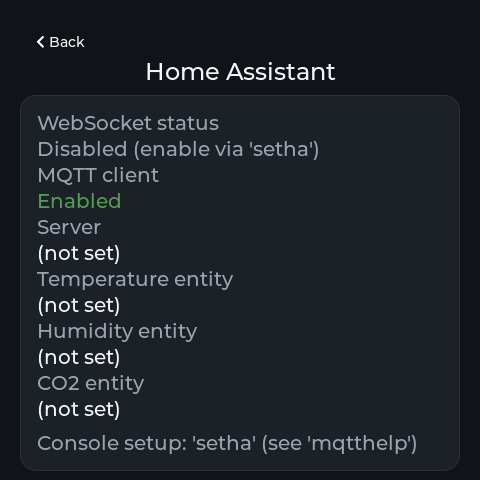
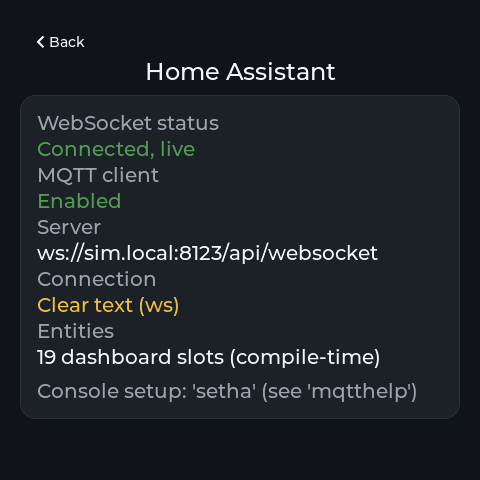
update

Changed region(s): [[0.0625, 0.5, 0.875, 0.875], [0.0625, 0.2812, 0.6562, 0.3438], [0.0625, 0.9062, 0.875, 0.9375]]

diff --git a/README.md b/README.md
@@ -4,14 +4,16 @@
 
 Firmware that turns the [Seeed Studio SenseCAP Indicator](https://www.seeedstudio.com/SenseCAP-Indicator-D1-p-5643.html) into a Home Assistant companion panel. It joins your Wi-Fi and talks to Home Assistant over your choice of two transports — classic **MQTT** (switch entities driven both ways, display values pushed by an automation, buzzer as a siren entity) or HA's native **WebSocket API** (the panel subscribes to entities directly; no broker or automation needed for live values). Touch controls, live temperature/humidity/CO₂ tiles, and a rolling Trends chart render on the 480×480 panel. All connections are outbound from the device; it opens no network ports.
 
-<figure class="third">
-    <img align="left" src="./assets/loft-controls.png" width="240"/>
-    <img align="center" src="./assets/general-controls.png" width="240"/>
-    <img align="left" src="./assets/trends.png" width="240"/>
-    <img align="center" src="./assets/mqtt-address-panel.png" width="240"/>
-    <img align="left" src="./assets/ha-websocket-status.png" width="240"/>
-</figure>
-
+<table>
+  <tr>
+    <td align="center"><img src="./assets/home.png" alt="Home dashboard"/><br/><sub><b>Home</b> — clock, quick actions, room cards</sub></td>
+    <td align="center"><img src="./assets/loft.png" alt="Loft room page"/><br/><sub><b>Loft</b> — environment tiles + light controls</sub></td>
+  </tr>
+  <tr>
+    <td align="center"><img src="./assets/living-room.png" alt="Living Room media card"/><br/><sub><b>Living Room</b> — media player + playlist presets</sub></td>
+    <td align="center"><img src="./assets/trends.png" alt="Trends history chart"/><br/><sub><b>Trends</b> — rolling temperature / humidity / CO₂</sub></td>
+  </tr>
+</table>
 
 ---
 
@@ -178,7 +180,12 @@ Controls go the other way as `call_service` frames — toggles use `homeassistan
 
 4. **Add the dashboard.** Paste [`examples/homeassistant/dashboard.yaml`](examples/homeassistant/dashboard.yaml) into the Lovelace Raw Configuration Editor.
 
-<img src="./assets/Home Assistant Dashboard.png" />
+<table>
+  <tr>
+    <td align="center" width="38%"><img src="./assets/mqtt-broker.png" alt="On-device MQTT broker setup"/><br/><sub>On-device MQTT broker setup (step 2)</sub></td>
+    <td align="center" width="62%"><img src="./assets/ha-lovelace-dashboard.png" alt="Example Lovelace dashboard in Home Assistant"/><br/><sub>The example Lovelace dashboard in Home Assistant (step 4)</sub></td>
+  </tr>
+</table>
 
 See also: [Seeed wiki — Home Assistant application guide](https://wiki.seeedstudio.com/SenseCAP_Indicator_Application_Home_Assistant/).
 
@@ -196,6 +203,8 @@ See also: [Seeed wiki — Home Assistant application guide](https://wiki.seeedst
    ```
 
 4. **Check it**: `haconfig` prints the WebSocket block, and the Settings → *Home Asst* card on the touchscreen shows live connection status. `setha --disable` switches back to MQTT.
+
+<p align="center"><img src="./assets/ha-websocket-status.png" width="340" alt="On-device Home Assistant WebSocket status card"/><br/><sub>The Settings → Home Asst status card, live over WebSocket</sub></p>
 
 Addresses accept bare IPs and hostnames (`192.168.1.10`, `ha.local:8123` → `ws://…:8123`) or TLS URLs (`wss://ha.example.com`, `https://xyz.ui.nabu.casa` → `wss://…:443`); `wss://` uses the same trust settings as `mqtts://` (see [TLS](#tls-mqtts-and-wss)).
 